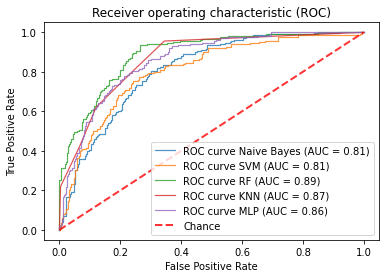
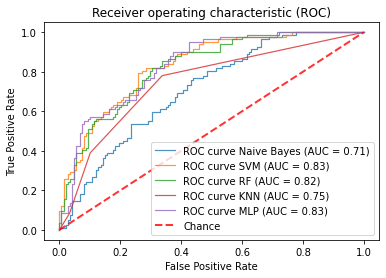
add changes

diff --git a/classificationcompletoroc2.py b/classificationcompletoroc2.py
@@ -17,6 +17,9 @@ Created on Mon Dec 14 16:42:56 2020
 #https://www.google.com/search?q=simple+roc+curve+python&oq=simple+roc+curve+python&aqs=chrome..69i57j33i22i29i30l7.4108j1j7&sourceid=chrome&ie=UTF-8
 #https://www.google.com/search?q=roc+curve+k+fold&oq=kfold+roc&aqs=chrome.1.69i57j0i8i13i30l3.4020j0j7&sourceid=chrome&ie=UTF-8
 
+#https://stackoverflow.com/questions/16476924/how-to-iterate-over-rows-in-a-dataframe-in-pandas
+#https://stackoverflow.com/questions/13851535/delete-rows-from-a-pandas-dataframe-based-on-a-conditional-expression-involving
+
 import pandas as pd
 import numpy as np
 from matplotlib import pyplot as plt
@@ -30,8 +33,7 @@ from sklearn.ensemble import RandomForestClassifier
 from sklearn.neighbors import KNeighborsClassifier
 from sklearn.neural_network import MLPClassifier
 from sklearn.utils import shuffle
-from sklearn.model_selection import train_test_split
-from sklearn.utils import shuffle
+from sklearn.model_selection import train_test_split, GridSearchCV
 
 def add_Score(key, original, predicted, scores):
     
@@ -138,27 +140,43 @@ def convertToLaTeX(df, alignment="c"):
     output.write("\\end{tabular}")
     return output.getvalue()
 
+def processing_zeros_to_mid_mean_mode(df, column):
+
+    value_key = df[column].mean()
+    value_key += df[column].median()
+    value_key += df[column].mode().values[0]
+    value_key /= 3 
+
+    df.loc[df[column] == 0, column] = round(value_key)
+    
+    return df
+
 # df1 = pd.read_csv('diabetes_johndasilva_kaggle.csv') #  hospital Frankfurt, Germany HFG
 # df2 = pd.read_csv('diabetes.csv')
 # df = pd.concat([df1,df2], axis=0)
 
-df = pd.read_csv('diabetes_johndasilva_kaggle.csv') #  hospital Frankfurt, Germany HFG
-#df = pd.read_csv('diabetes.csv')
+#df = pd.read_csv('diabetes_johndasilva_kaggle.csv') #  hospital Frankfurt, Germany HFG
+df = pd.read_csv('diabetes.csv')
 df = shuffle(df, random_state=1)
+#df.reset_index(drop=True)
 
+df = processing_zeros_to_mid_mean_mode(df, "BloodPressure")
+df = processing_zeros_to_mid_mean_mode(df, "SkinThickness")
+df = processing_zeros_to_mid_mean_mode(df, "BMI")
+
+df = df.drop(df[(df.Glucose == 0) & (df.Insulin == 0)].index)
+    
 df.isnull().values.any() # Sem valores nulos para tratar
 # df = df.drop("Pregnancies", axis = 1)
 
 # Fit Data
-from sklearn.model_selection import LeaveOneOut
-kf = LeaveOneOut()
 
 X = df[df.columns[:-1]].values
 y = df[df.columns[-1]].values
 
 class_pos = "Outcome"
 X_train, X_test, y_train, y_test = train_test_split(
-    df.drop(class_pos, axis = 1),df[class_pos], test_size = 0.4, random_state = 1)
+    df.drop(class_pos, axis = 1),df[class_pos], test_size = 0.3, random_state = 1)
 
 Scores = dict()
 
@@ -173,42 +191,75 @@ fig, ax = plt.subplots()
 # Naive Bayes
 # model = MultinomialNB()
 model = GaussianNB()
+param_grid = {'var_smoothing': [0.00000001, 0.000000001, 0.00000001]}
+model = GridSearchCV(model, param_grid=param_grid, n_jobs=-1)
 model.fit(X_train_n, y_train)
 predicted = model.predict(X_test_n)
 add_Score("Naive Bayes", y_test, predicted, Scores)
 metrics.plot_roc_curve(model, X_test_n, y_test, name='ROC curve Naive Bayes', alpha=0.8, lw=1.2, ax=ax)
+print(metrics.confusion_matrix(y_test, predicted))
+
 # SVM
 #model = svm.SVC(gamma=0.001, C=10000, kernel='rbf',random_state=1)
-model = svm.SVC(C=2, kernel='linear',random_state=1)
+#model = svm.SVC(C=2, kernel='linear',random_state=1)
+model = svm.SVC()
+param_grid =  [{'kernel': ['rbf'], 'gamma': [1e-3, 1e-4],
+                     'C': [1, 10], 'random_state': [1]},
+               {'kernel': ['linear'], 'C': [1, 10], 'random_state': [1]}]
+model = GridSearchCV(model, param_grid=param_grid, n_jobs=-1)
 model.fit(X_train,y_train)
 predicted = model.predict(X_test)
 add_Score("SVM", y_test, predicted, Scores)
 metrics.plot_roc_curve(model, X_test, y_test, name='ROC curve SVM', alpha=0.8, lw=1.2, ax=ax)
+print(metrics.confusion_matrix(y_test, predicted))
 
 # RF
 #model = RandomForestClassifier(max_depth = 5, n_estimators=500, random_state=1)
-model = RandomForestClassifier(n_estimators=500, n_jobs = -1, random_state=1,
-                               bootstrap = True, max_features = 'sqrt', max_depth = 5)
+#model = RandomForestClassifier(n_estimators=500, n_jobs = -1, random_state=1,
+#                               bootstrap = True, max_features = 'sqrt', max_depth = 5)
+model = RandomForestClassifier()
+param_grid =  {'bootstrap': [True, False],
+               'max_depth': [5],
+               'max_features': ['auto', 'sqrt'],
+               'n_estimators': [200, 500],
+               'random_state': [1],
+               'n_jobs': [-1]}
+model = GridSearchCV(model, param_grid=param_grid, n_jobs=-1)
 model.fit(X_train,y_train)
 predicted = model.predict(X_test)
 add_Score("RF", y_test, predicted, Scores)
 metrics.plot_roc_curve(model, X_test, y_test, name='ROC curve RF', alpha=0.8, lw=1.2, ax=ax)
-    
+print(metrics.confusion_matrix(y_test, predicted))
+  
 # KNN
-model = KNeighborsClassifier(n_neighbors=5, n_jobs = -1)
+#model = KNeighborsClassifier(n_neighbors=5, n_jobs = -1)
+model = KNeighborsClassifier()
+param_grid =  {'n_neighbors': [3, 5],
+               'n_jobs': [-1]}
+model = GridSearchCV(model, param_grid=param_grid, n_jobs=-1)
 model.fit(X_train_n,y_train)
 predicted = model.predict(X_test_n)
 add_Score("KNN", y_test, predicted, Scores)
 metrics.plot_roc_curve(model, X_test_n, y_test, name='ROC curve KNN', alpha=0.8, lw=1.2, ax=ax)
-    
+print(metrics.confusion_matrix(y_test, predicted))
+
 # MLP
-model = MLPClassifier(hidden_layer_sizes=(16,32), activation='relu',
-                      solver='adam', max_iter=5000, random_state=1)
+#model = MLPClassifier(hidden_layer_sizes=(16,32), activation='relu',
+#                      solver='adam', max_iter=5000, random_state=1)
+
+model = MLPClassifier()
+param_grid =  {'hidden_layer_sizes': [(16,32)],
+               'activation': ['relu'],
+               'solver': ['adam'],
+               'max_iter': [2000, 5000],
+               'random_state': [1]}
+model = GridSearchCV(model, param_grid=param_grid, n_jobs=-1)
 model.fit(X_train_n,y_train)
 predicted = model.predict(X_test_n)
 add_Score("MLP", y_test, predicted, Scores)
 metrics.plot_roc_curve(model, X_test_n, y_test, name='ROC curve MLP', alpha=0.8, lw=1.2, ax=ax)
-    
+print(metrics.confusion_matrix(y_test, predicted))   
+
 ax.plot([0, 1], [0, 1], linestyle='--', lw=2, color='r', label='Chance', alpha=.8)
 
 ax.set(xlim=[-0.05, 1.05], ylim=[-0.05, 1.05],

diff --git a/classification_kfold_completo.py b/classification_kfold_completo.py
@@ -18,6 +18,7 @@ from sklearn.ensemble import RandomForestClassifier
 from sklearn.neighbors import KNeighborsClassifier
 from sklearn.neural_network import MLPClassifier
 from sklearn.utils import shuffle
+from sklearn.model_selection import GridSearchCV
 
 def add_Score(key, original, predicted, scores):
     
@@ -124,14 +125,29 @@ def convertToLaTeX(df, alignment="c"):
     output.write("\\end{tabular}")
     return output.getvalue()
 
-# df1 = pd.read_csv('diabetes_johndasilva_kaggle.csv')
-# df2 = pd.read_csv('diabetes.csv')
-# df = pd.concat([df1,df2], axis=0)
+def processing_zeros_to_mid_mean_mode(df, column):
+
+    value_key = df[column].mean()
+    value_key += df[column].median()
+    value_key += df[column].mode().values[0]
+    value_key /= 3 
+
+    df.loc[df[column] == 0, column] = round(value_key)
+    
+    return df
+
 
 #df = pd.read_csv('diabetes_johndasilva_kaggle.csv') #  hospital Frankfurt, Germany HFG
 df = pd.read_csv('diabetes.csv')
 df = shuffle(df, random_state=1)
+#df.reset_index(drop=True)
 
+df = processing_zeros_to_mid_mean_mode(df, "BloodPressure")
+df = processing_zeros_to_mid_mean_mode(df, "SkinThickness")
+df = processing_zeros_to_mid_mean_mode(df, "BMI")
+
+df = df.drop(df[(df.Glucose == 0) & (df.Insulin == 0)].index)
+    
 df.isnull().values.any() # Sem valores nulos para tratar
 # df = df.drop("Pregnancies", axis = 1)
 
@@ -155,38 +171,71 @@ for train, test in kf.split(df):
     # Classification
     
     # Naive Bayes
+    # model = MultinomialNB()
     model = GaussianNB()
+    param_grid = {'var_smoothing': [0.00000001, 0.000000001, 0.00000001]}
+    model = GridSearchCV(model, param_grid=param_grid, n_jobs=-1)
     model.fit(X_train_n, y_train)
     predicted = model.predict(X_test_n)
     add_Score("Naive Bayes", y_test, predicted, Scores)
+    print(metrics.classification_report(y_test, predicted))
     
     # SVM
     #model = svm.SVC(gamma=0.001, C=10000, kernel='rbf',random_state=1)
-    model = svm.SVC(C=2, kernel='linear',random_state=1)
+    #model = svm.SVC(C=2, kernel='linear',random_state=1)
+    model = svm.SVC()
+    param_grid =  [{'kernel': ['rbf'], 'gamma': [1e-3, 1e-4],
+                         'C': [1, 10], 'random_state': [1]},
+                   {'kernel': ['linear'], 'C': [1, 10], 'random_state': [1]}]
+    model = GridSearchCV(model, param_grid=param_grid, n_jobs=-1)
     model.fit(X_train,y_train)
     predicted = model.predict(X_test)
     add_Score("SVM", y_test, predicted, Scores)
+    print(metrics.classification_report(y_test, predicted))
     
     # RF
     #model = RandomForestClassifier(max_depth = 5, n_estimators=500, random_state=1)
-    model = RandomForestClassifier(n_estimators=500, n_jobs = -1, random_state=1,
-                                   bootstrap = True, max_features = 'sqrt', max_depth = 5)
+    #model = RandomForestClassifier(n_estimators=500, n_jobs = -1, random_state=1,
+    #                               bootstrap = True, max_features = 'sqrt', max_depth = 5)
+    model = RandomForestClassifier()
+    param_grid =  {'bootstrap': [True, False],
+                   'max_depth': [5],
+                   'max_features': ['auto', 'sqrt'],
+                   'n_estimators': [200, 500],
+                   'random_state': [1],
+                   'n_jobs': [-1]}
+    model = GridSearchCV(model, param_grid=param_grid, n_jobs=-1)
     model.fit(X_train,y_train)
     predicted = model.predict(X_test)
     add_Score("RF", y_test, predicted, Scores)
+    print(metrics.classification_report(y_test, predicted))
         
     # KNN
-    model = KNeighborsClassifier(n_neighbors=5, n_jobs = -1)
+    #model = KNeighborsClassifier(n_neighbors=5, n_jobs = -1)
+    model = KNeighborsClassifier()
+    param_grid =  {'n_neighbors': [3, 5],
+                   'n_jobs': [-1]}
+    model = GridSearchCV(model, param_grid=param_grid, n_jobs=-1)
     model.fit(X_train_n,y_train)
     predicted = model.predict(X_test_n)
     add_Score("KNN", y_test, predicted, Scores)
+    print(metrics.classification_report(y_test, predicted))
         
     # MLP
-    model = MLPClassifier(hidden_layer_sizes=(16,32), activation='relu',
-                          solver='adam', max_iter=5000, random_state=1)
+    #model = MLPClassifier(hidden_layer_sizes=(16,32), activation='relu',
+    #                      solver='adam', max_iter=5000, random_state=1)
+    
+    model = MLPClassifier()
+    param_grid =  {'hidden_layer_sizes': [(16,32)],
+                   'activation': ['relu'],
+                   'solver': ['adam'],
+                   'max_iter': [2000, 5000],
+                   'random_state': [1]}
+    model = GridSearchCV(model, param_grid=param_grid, n_jobs=-1)
     model.fit(X_train_n,y_train)
     predicted = model.predict(X_test_n)
     add_Score("MLP", y_test, predicted, Scores)
+    print(metrics.classification_report(y_test, predicted))
     
 Scores = list(Scores.values())
 show_metric(Scores, ["accuracy"])

diff --git a/classificationcompleto.py b/classificationcompleto.py
@@ -126,6 +126,18 @@ def convertToLaTeX(df, alignment="c"):
     output.write("\\end{tabular}")
     return output.getvalue()
 
+def processing_zeros_to_mid_mean_mode(df, column):
+
+    value_key = df[column].mean()
+    value_key += df[column].median()
+    value_key += df[column].mode().values[0]
+    value_key /= 3 
+
+    df.loc[df[column] == 0, column] = round(value_key)
+    
+    return df
+
+
 # df1 = pd.read_csv('diabetes_johndasilva_kaggle.csv') #  hospital Frankfurt, Germany HFG
 # df2 = pd.read_csv('diabetes.csv')
 # df = pd.concat([df1,df2], axis=0)
@@ -133,6 +145,9 @@ def convertToLaTeX(df, alignment="c"):
 #df = pd.read_csv('diabetes_johndasilva_kaggle.csv') #  hospital Frankfurt, Germany HFG
 df = pd.read_csv('diabetes.csv')
 df = shuffle(df, random_state=1)
+
+# df = processing_zeros_to_mid_mean_mode(df, "BloodPressure")
+# df = processing_zeros_to_mid_mean_mode(df, "SkinThickness")
 
 df.isnull().values.any() # Sem valores nulos para tratar
 # df = df.drop("Pregnancies", axis = 1)
